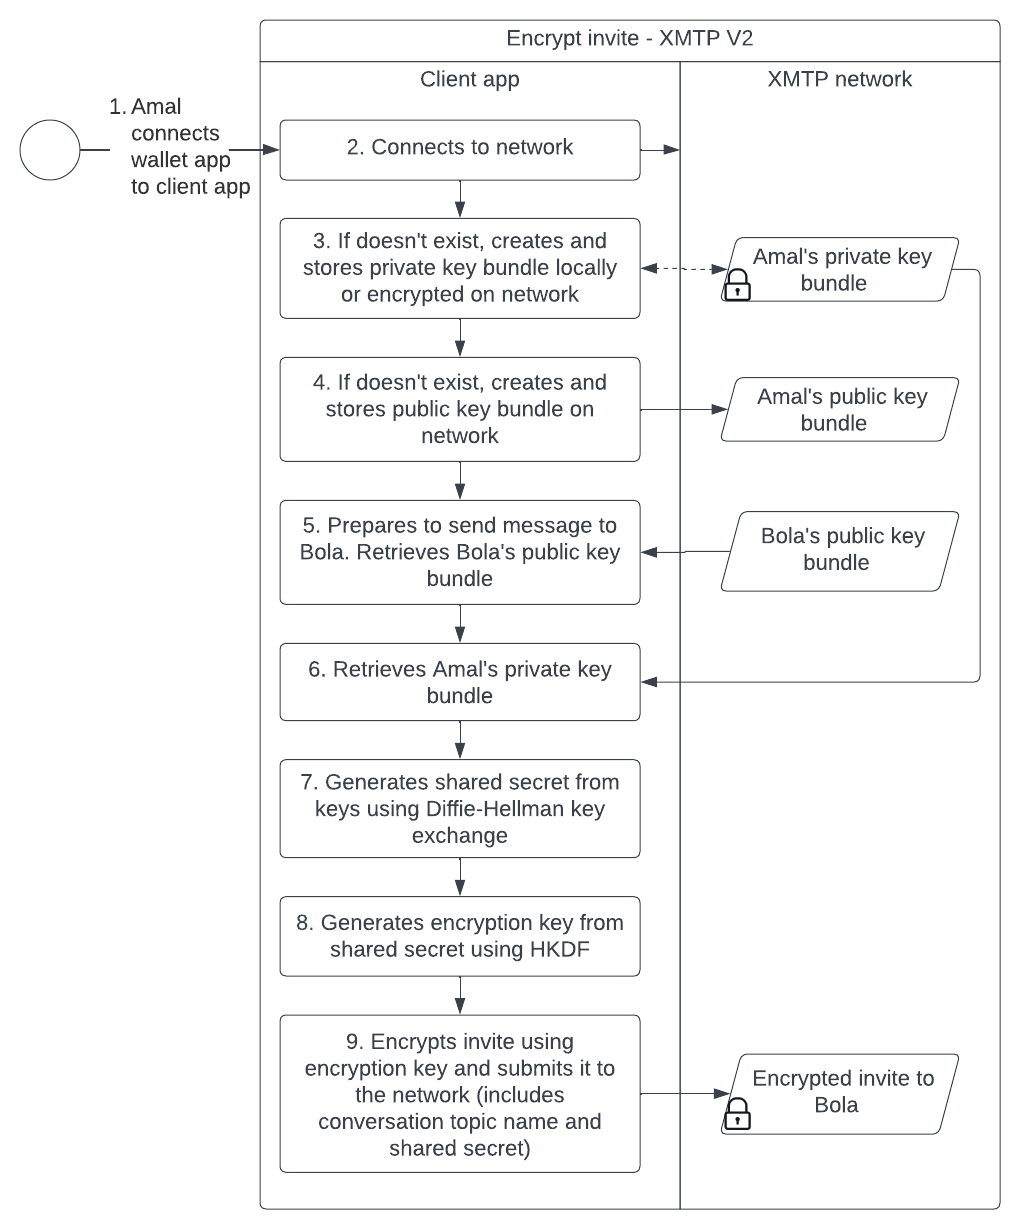
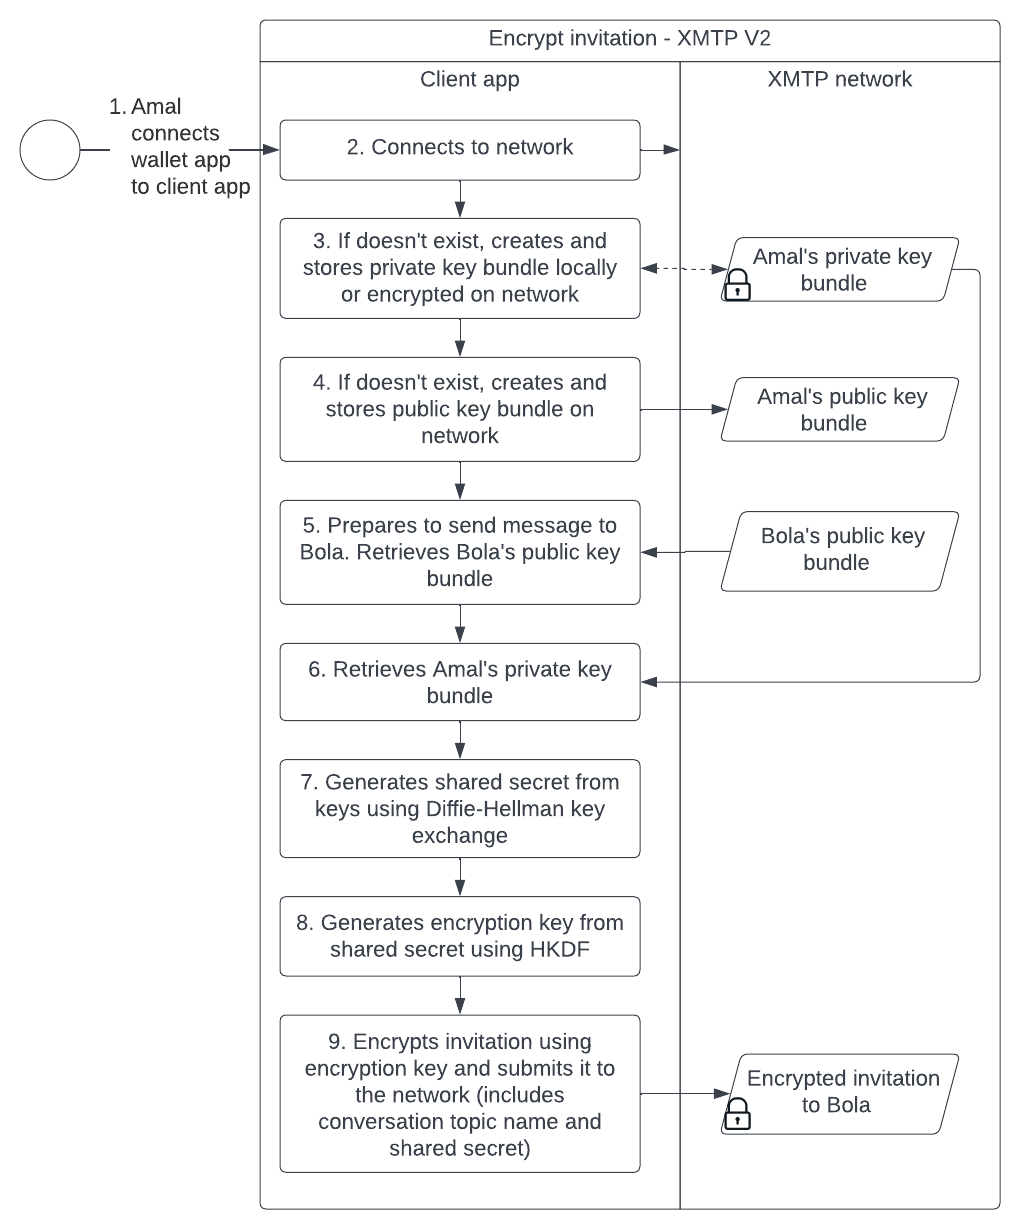
clean up formatting and inconsistencies

diff --git a/docs/dev-concepts/invitation-and-message-encryption.md b/docs/dev-concepts/invitation-and-message-encryption.md
@@ -29,11 +29,11 @@ A client app encrypts and decrypts invites using the following artifacts:
 
 The following sequence diagram dives a bit deeper into the flow and illustrates how a client app creates and uses these artifacts to encrypt an invite sent from Amal to Bola:
 
-![Diagram showing the sequence of steps a client app takes to use a private key, public key, shared secret, and encryption key to encrypt an invite before submitting it to the XMTP network.](img/invite-encrypt-v2.png)<!--Source file: [https://lucid.app/lucidchart/e2f80322-b2c9-44c1-8f20-421628e4f9ed/edit?viewport_loc=-122%2C-1148%2C3032%2C1592%2C0_0&invitationId=inv_4013c892-b596-4097-bcfd-a50a233de812](https://lucid.app/lucidchart/e2f80322-b2c9-44c1-8f20-421628e4f9ed/edit?viewport_loc=-122%2C-1148%2C3032%2C1592%2C0_0&invitationId=inv_4013c892-b596-4097-bcfd-a50a233de812)-->
+![Diagram showing the sequence of steps a client app takes to use a private key, public key, shared secret, and encryption key to encrypt an invite before submitting it to the XMTP network.](img/invite-encrypt-v2.png)<!--Source file: https://lucid.app/lucidchart/e2f80322-b2c9-44c1-8f20-421628e4f9ed/edit?viewport_loc=-122%2C-1148%2C3032%2C1592%2C0_0&invitationId=inv_4013c892-b596-4097-bcfd-a50a233de812-->
 
 Likewise, this sequence diagram illustrates the invite decryption process:
 
-![Diagram showing the sequence of steps a client app takes to retrieve an invitation from the XMTP network and use a private key, public key, shared secret, and encryption key to decrypt the invitation.](img/invite-decrypt-v2.png)<!--Source file: [https://lucid.app/lucidchart/e2f80322-b2c9-44c1-8f20-421628e4f9ed/edit?viewport_loc=-122%2C-1148%2C3032%2C1592%2C0_0&invitationId=inv_4013c892-b596-4097-bcfd-a50a233de812](https://lucid.app/lucidchart/e2f80322-b2c9-44c1-8f20-421628e4f9ed/edit?viewport_loc=-122%2C-1148%2C3032%2C1592%2C0_0&invitationId=inv_4013c892-b596-4097-bcfd-a50a233de812)-->
+![Diagram showing the sequence of steps a client app takes to retrieve an invitation from the XMTP network and use a private key, public key, shared secret, and encryption key to decrypt the invitation.](img/invite-decrypt-v2.png)<!--Source file: https://lucid.app/lucidchart/e2f80322-b2c9-44c1-8f20-421628e4f9ed/edit?viewport_loc=-122%2C-1148%2C3032%2C1592%2C0_0&invitationId=inv_4013c892-b596-4097-bcfd-a50a233de812-->
 
 
 ### Message encryption
@@ -49,11 +49,11 @@ On a related note, the encrypted message is signed by the sender using their pri
 
 The following sequence diagram dives a bit deeper into the flow and illustrates how a client app creates and uses these artifacts to encrypt and sign a message sent from Amal to Bola:
 
-![Diagram showing the sequence of steps a client app takes to use a shared secret to generate an encryption key and use it to encrypt a message before submitting it to the XMTP network.](img/message-encrypt-v2.png)<!--Source file: [https://lucid.app/lucidchart/9ec2b0e2-df13-4d06-82c7-59068059b8a7/edit?viewport_loc=-559%2C-817%2C2784%2C1462%2C0_0&invitationId=inv_857afa87-d52e-4236-8a9f-c5818c65df04](https://lucid.app/lucidchart/9ec2b0e2-df13-4d06-82c7-59068059b8a7/edit?viewport_loc=-559%2C-817%2C2784%2C1462%2C0_0&invitationId=inv_857afa87-d52e-4236-8a9f-c5818c65df04)-->
+![Diagram showing the sequence of steps a client app takes to use a shared secret to generate an encryption key and use it to encrypt a message before submitting it to the XMTP network.](img/message-encrypt-v2.png)<!--Source file: https://lucid.app/lucidchart/9ec2b0e2-df13-4d06-82c7-59068059b8a7/edit?viewport_loc=-559%2C-817%2C2784%2C1462%2C0_0&invitationId=inv_857afa87-d52e-4236-8a9f-c5818c65df04-->
 
 Likewise, this sequence diagram illustrates the message decryption and message verification process:
 
-![Diagram showing the sequence of steps a client app takes to use a shared secret to generate an encryption key and use it to decrypt a message before presenting it to a user.](img/message-decrypt-v2.png)<!--Source file: [https://lucid.app/lucidchart/9ec2b0e2-df13-4d06-82c7-59068059b8a7/edit?viewport_loc=-559%2C-817%2C2784%2C1462%2C0_0&invitationId=inv_857afa87-d52e-4236-8a9f-c5818c65df04](https://lucid.app/lucidchart/9ec2b0e2-df13-4d06-82c7-59068059b8a7/edit?viewport_loc=-559%2C-817%2C2784%2C1462%2C0_0&invitationId=inv_857afa87-d52e-4236-8a9f-c5818c65df04)-->
+![Diagram showing the sequence of steps a client app takes to use a shared secret to generate an encryption key and use it to decrypt a message before presenting it to a user.](img/message-decrypt-v2.png)<!--Source file: https://lucid.app/lucidchart/9ec2b0e2-df13-4d06-82c7-59068059b8a7/edit?viewport_loc=-559%2C-817%2C2784%2C1462%2C0_0&invitationId=inv_857afa87-d52e-4236-8a9f-c5818c65df04-->
 
 
 ## XMTP V1 message encryption
@@ -69,12 +69,12 @@ With XMTP V1 message encryption, a client app encrypts and decrypts messages usi
 
 Here’s a high-level overview of the message encryption and decryption flow for XMTP V1:
 
-![Animation showing the flow of a user sending a message to another user, including details of how the sender's client app encrypts and submits the message to the XMTP network, how an XMTP node relays the message to other nodes, and how the recipient's client app retrieves the message from the network, decrypts it, and delivers it to the recipient.](./img/message-encrypt-decrypt.gif)<!--Source file: [https://www.figma.com/file/77ToMB4T16NiLwJjIp7dU1/diagrams?node-id=1%3A1769](https://www.figma.com/file/77ToMB4T16NiLwJjIp7dU1/diagrams?node-id=1%3A1769)--><!--change paper icons to open and closed envelope icons-->
+![Animation showing the flow of a user sending a message to another user, including details of how the sender's client app encrypts and submits the message to the XMTP network, how an XMTP node relays the message to other nodes, and how the recipient's client app retrieves the message from the network, decrypts it, and delivers it to the recipient.](./img/message-encrypt-decrypt.gif)<!--Source file: https://www.figma.com/file/77ToMB4T16NiLwJjIp7dU1/diagrams?node-id=1%3A1769-->
 
 The following sequence diagram dives a bit deeper into the flow and illustrates how a client app creates and uses these artifacts to encrypt a message:
 
-![Diagram showing the sequence of steps a client app takes to use a private key, public key, shared secret, and encryption key to encrypt a message before submitting it to the XMTP network.](img/message-encrypt-v1.png)<!--Source file: [https://lucid.app/lucidchart/d2985646-969e-4625-82f0-cb38853033c5/edit?viewport_loc=-130%2C-308%2C3054%2C1604%2C0_0&invitationId=inv_2faa4c23-7fdb-40d8-9b78-e9c4557b712d](https://lucid.app/lucidchart/d2985646-969e-4625-82f0-cb38853033c5/edit?viewport_loc=-130%2C-308%2C3054%2C1604%2C0_0&invitationId=inv_2faa4c23-7fdb-40d8-9b78-e9c4557b712d)-->
+![Diagram showing the sequence of steps a client app takes to use a private key, public key, shared secret, and encryption key to encrypt a message before submitting it to the XMTP network.](img/message-encrypt-v1.png)<!--Source file: https://lucid.app/lucidchart/d2985646-969e-4625-82f0-cb38853033c5/edit?viewport_loc=-130%2C-308%2C3054%2C1604%2C0_0&invitationId=inv_2faa4c23-7fdb-40d8-9b78-e9c4557b712d-->
 
 Likewise, this sequence diagram illustrates the message decryption process:
 
-![Diagram showing the sequence of steps a client app takes to retrieve a message from the XMTP network, use a private key, public key, shared secret, and encryption key to decrypt them message, and then deliver the message to a user.](img/message-decrypt-v1.png)<!--Source file: [https://lucid.app/lucidchart/d2985646-969e-4625-82f0-cb38853033c5/edit?viewport_loc=-130%2C-308%2C3054%2C1604%2C0_0&invitationId=inv_2faa4c23-7fdb-40d8-9b78-e9c4557b712d](https://lucid.app/lucidchart/d2985646-969e-4625-82f0-cb38853033c5/edit?viewport_loc=-130%2C-308%2C3054%2C1604%2C0_0&invitationId=inv_2faa4c23-7fdb-40d8-9b78-e9c4557b712d)-->
+![Diagram showing the sequence of steps a client app takes to retrieve a message from the XMTP network, use a private key, public key, shared secret, and encryption key to decrypt them message, and then deliver the message to a user.](img/message-decrypt-v1.png)<!--Source file: https://lucid.app/lucidchart/d2985646-969e-4625-82f0-cb38853033c5/edit?viewport_loc=-130%2C-308%2C3054%2C1604%2C0_0&invitationId=inv_2faa4c23-7fdb-40d8-9b78-e9c4557b712d-->
